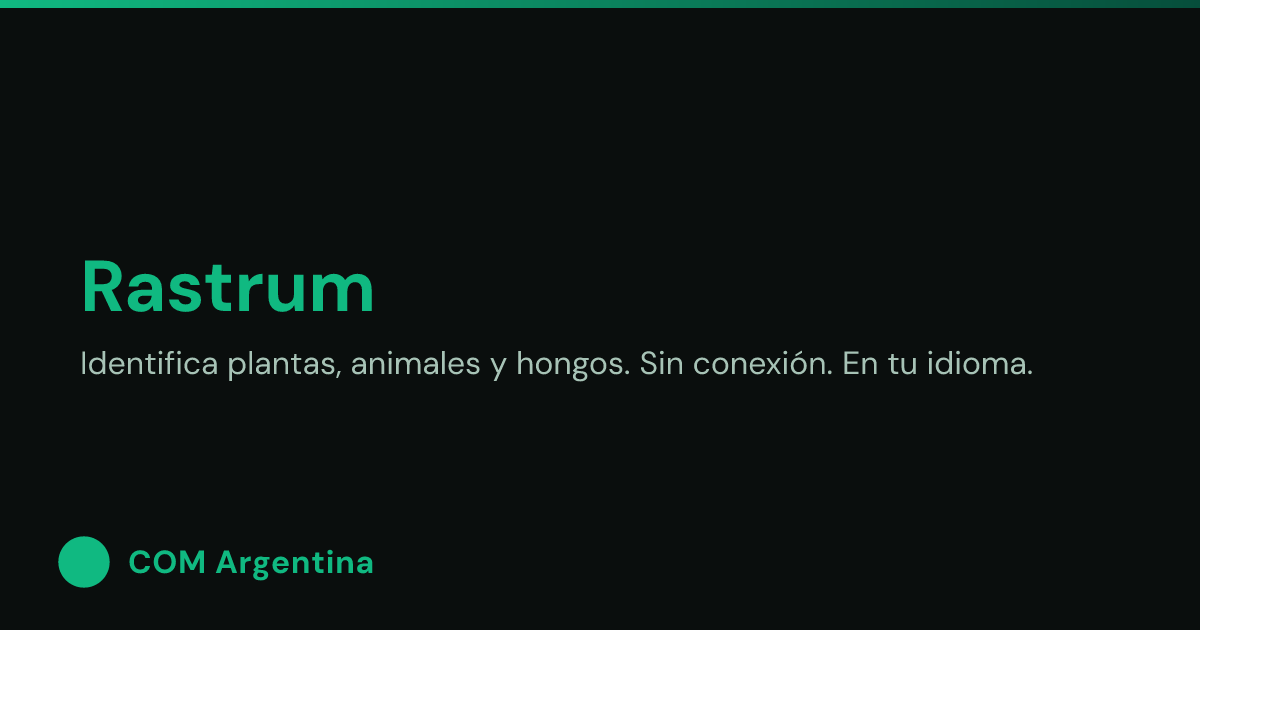
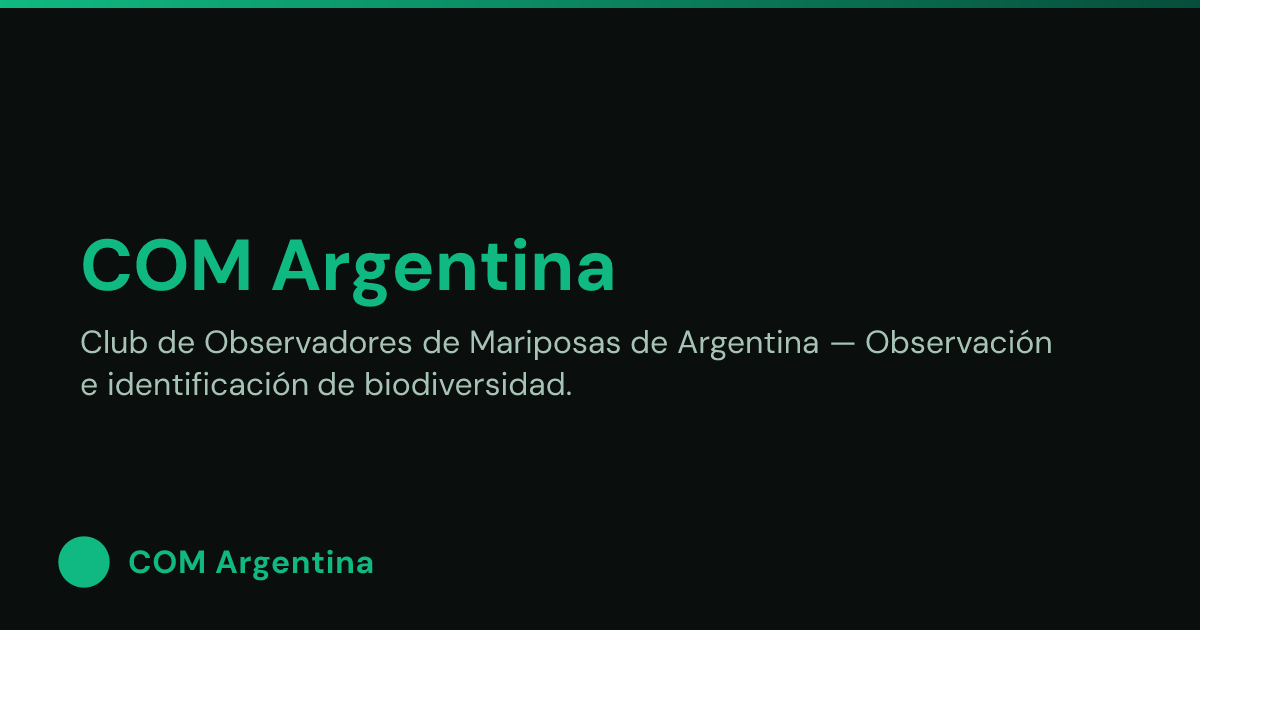
fix(pwa): replace Rastrum text with COM Argentina in PWA install screenshots

Changed region(s): [[0.0625, 0.3361, 0.8125, 0.55]]

diff --git a/scripts/generate-og.ts b/scripts/generate-og.ts
@@ -215,8 +215,8 @@ const SCREENSHOTS: ScreenshotSpec[] = [
     height: 720,
     card: {
       kind: 'static',
-      title: 'Rastrum',
-      subtitle: 'Identifica plantas, animales y hongos. Sin conexión. En tu idioma.',
+      title: 'COM Argentina',
+      subtitle: 'Club de Observadores de Mariposas de Argentina — Observación e identificación de biodiversidad.',
       accent: 'emerald',
     },
   },
@@ -226,8 +226,8 @@ const SCREENSHOTS: ScreenshotSpec[] = [
     height: 1334,
     card: {
       kind: 'static',
-      title: 'Rastrum',
-      subtitle: 'Captura una foto. Identifícala al instante. Sin conexión.',
+      title: 'COM Argentina',
+      subtitle: 'Plataforma comunitaria para registrar, identificar y conservar mariposas en Argentina.',
       accent: 'emerald',
     },
   },
